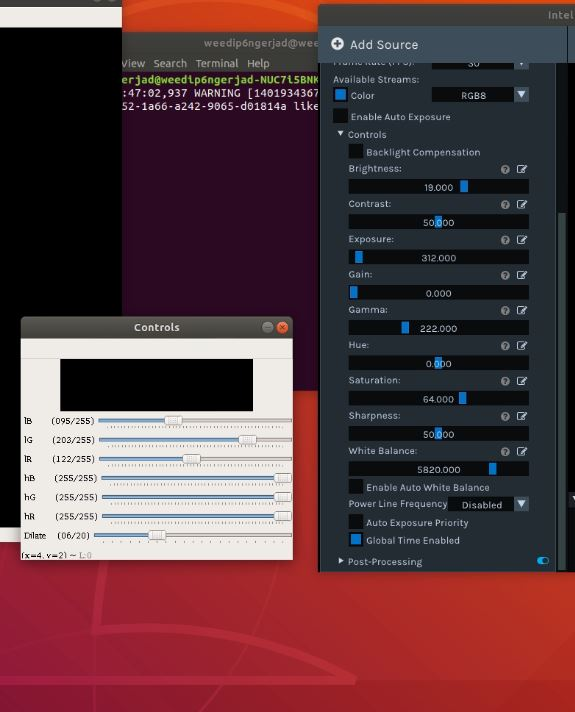
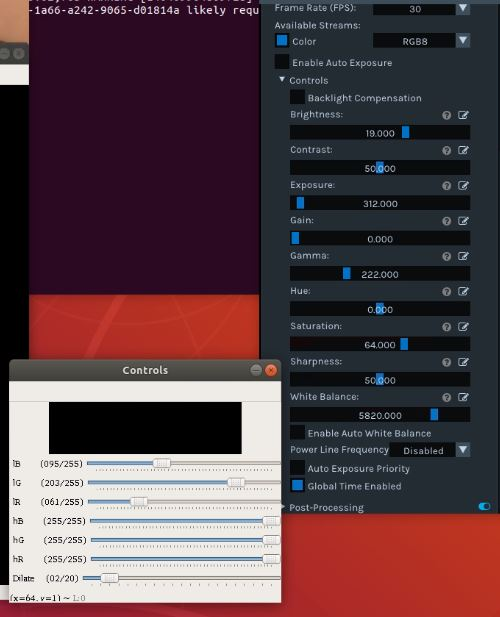
f

diff --git a/Movement.py b/Movement.py
@@ -1,6 +1,7 @@
 from serial.tools import list_ports
 import serial
 from math import sqrt, atan2, cos, radians
+import Camera
 
 # Takes list of existing ports. Chooses the mainboard if there are no others.
 port = (str(list_ports.comports()[0]).split(' '))[0]
@@ -11,7 +12,7 @@ def close():
     ser.close()
 
 
-def readSerial():
+def read_serial():
     while ser.inWaiting():
         ser.read()
 
@@ -25,8 +26,12 @@ def move_to_ball(ball):
     motors(speed, angle)
 
 
-def omniDrive(robotSpeedX, robotSpeedY, robotAngularVelocity):
+def omni_drive(values):
     # for more manual insertion
+    robotSpeedX = values[0]
+    robotSpeedY = values[1]
+    robotAngularVelocity = values[2]
+
     robotSpeed = sqrt(robotSpeedX * robotSpeedX + robotSpeedY * robotSpeedY)
     robotDirectionAngle = atan2(robotSpeedY, robotSpeedX)
     motors(robotSpeed, robotDirectionAngle, robotAngularVelocity)
@@ -56,7 +61,17 @@ def motors(robotSpeed, robotDirectionAngle, robotAngularVelocity = 0):
     ser.write(move.encode('utf-8'))
     print(move)
 
-    readSerial()
+    read_serial()
+
+
+def rotate_ball(ball):
+    # sets the ball and the basket in a line
+    toMiddle = Camera.ball_to_middle(ball)
+    if toMiddle != [0, 0, 0]:
+        omni_drive(toMiddle)
+    else:  # rotate
+        ser.write(b'sd:30:0:0')
+
     
 def thrower():
     ser.write(b'd:1000\n')

diff --git a/Camera.py b/Camera.py
@@ -13,9 +13,9 @@ lowerLimitsGreen = np.array([green[0], green[1], green[2]])
 upperLimitsGreen = np.array([green[3], green[4], green[5]])
 
 # values to process pink
-pink = [14, 163, 93, 124, 255, 255, 1]
+pink = [95, 203, 61, 255, 255, 255, 3]
 # values to process blue
-blue = [14, 163, 93, 124, 255, 255, 1]
+blue = [35, 0, 29, 255, 91, 255, 3]
 # values for processing
 lowerLimitsTarget = None
 upperLimitsTarget = None
@@ -114,7 +114,7 @@ def green_finder(frame):
 
 
 def ball_to_middle(ball):
-    # turns the robot to the given direction. Input as [x, y]
+    # turns the robot to the given direction. Input as [x, y] output as speeds [x, y, angular]
     # currently camera isnt in the middle
     if ball[0] < 690:
         return [0, 0, -1]

diff --git a/PlayBall.py b/PlayBall.py
@@ -37,13 +37,11 @@ try:
 
         if len(ball) == 0:
             if timer():
-                Movement.omniDrive(0, 0, 1)  # turns on the spot
+                Movement.omni_drive([0, 0, 1])  # turns on the spot
 
         else:
             if ball[1] > 400:
-                Movement.omniDrive(0, 0, 0)  # stops
-                print("Done")
-                break
+                Movement.rotate_ball(ball)
             else:
                 if timer():
                     Movement.move_to_ball(ball)
